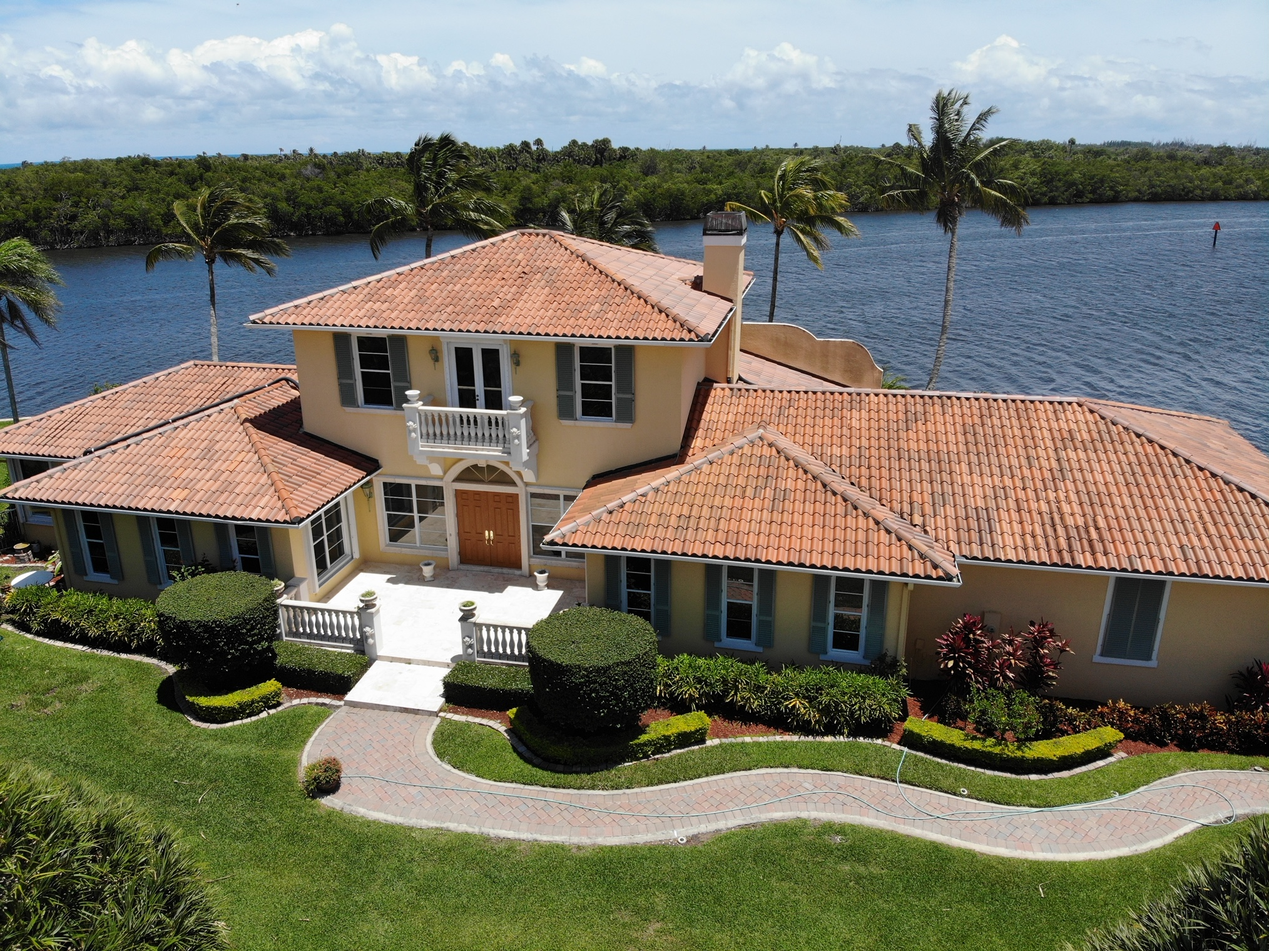
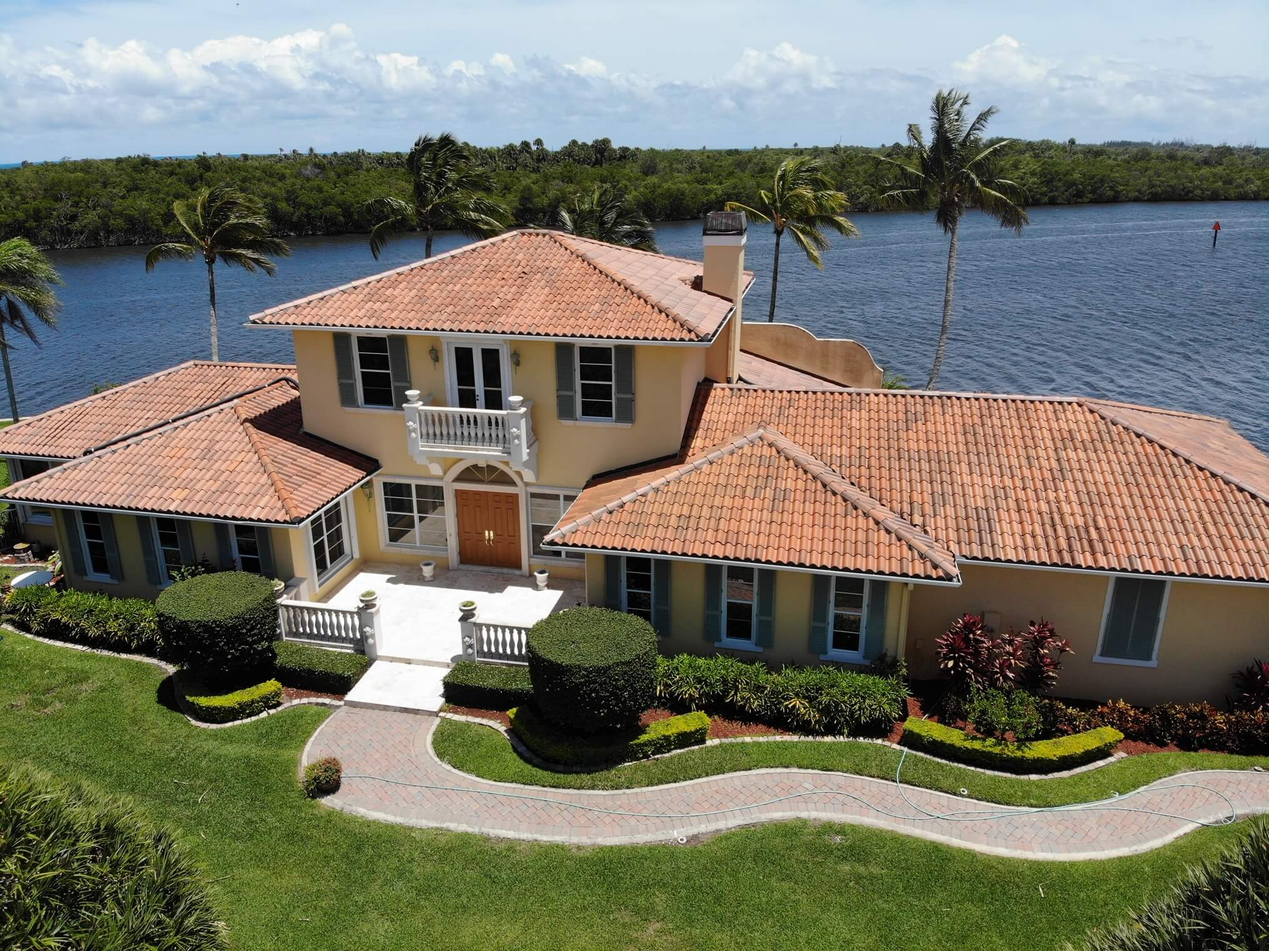
seo img update

Changed region(s): [[0.5902, 0.7112, 0.6524, 0.7421], [0.6834, 0.7112, 0.7145, 0.7421]]

diff --git a/src/js/component/gallery.js b/src/js/component/gallery.js
@@ -12,7 +12,7 @@ import AKG_Home3 from "../../img/AKG_home3.jpg";
 import AKG_Homes from "../../img/AKG_homes.jpg";
 import AKG_BG1 from "../../img/AKG_BG1.jpg";
 import AKG_BG2 from "../../img/AKG_BG2-3.png";
-import AKG_BarrelTile from "../../img/AKG_BarrelTile_Mod.png";
+import AKG_BarrelTile from "../../img/AKG_BarrelTile_Mod.jpeg";
 
 export const Gallery = props => {
 	const [offset, setOffset] = useState(props["props"]);
